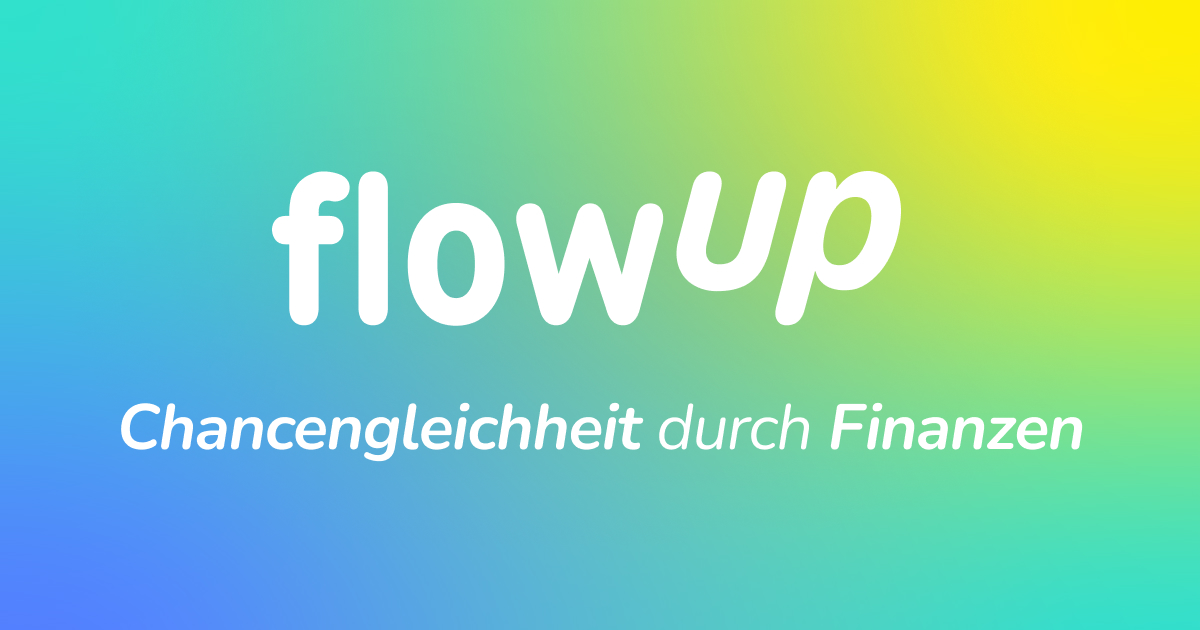
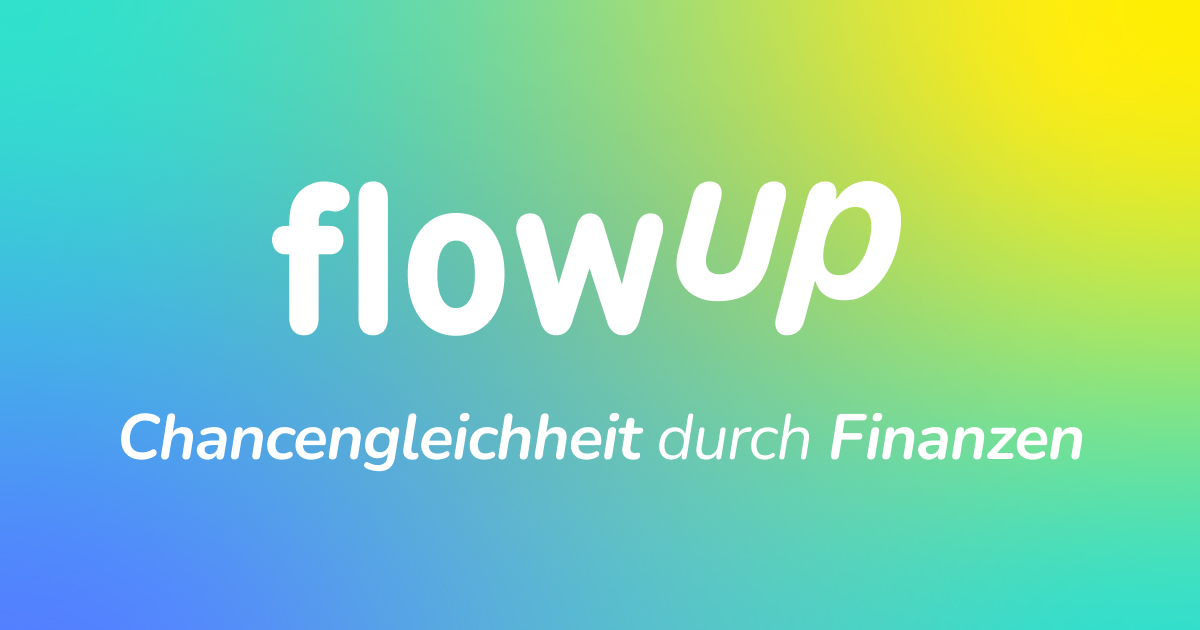
landing: social header caption positioning & twitter

diff --git a/docs/index.html b/docs/index.html
@@ -13,8 +13,11 @@
 		<link rel="manifest" href="/flow-up-website-public/fav/site.webmanifest">
 		
 		<meta property="og:title" content="FlowUp | Für Selbstständige und UnternehmerInnen" >
+		<meta property="og:type" content="website">
 		<meta property="og:description" content="Entspannt durchblicken bei deinen Finanzen mit FlowUp" >
 		<meta property="og:image" content="https://gruppjo.github.io/flow-up-website-public/social/header.jpg" >
+		
+		<meta name=”twitter:card” content=”summary_large_image”>
 		<script type="module" crossorigin src="/flow-up-website-public/assets/index-68788085.js"></script>
 		<link rel="modulepreload" crossorigin href="/flow-up-website-public/assets/index-d44d309f.js">
 		<link rel="stylesheet" href="/flow-up-website-public/assets/index-f88a816d.css">
